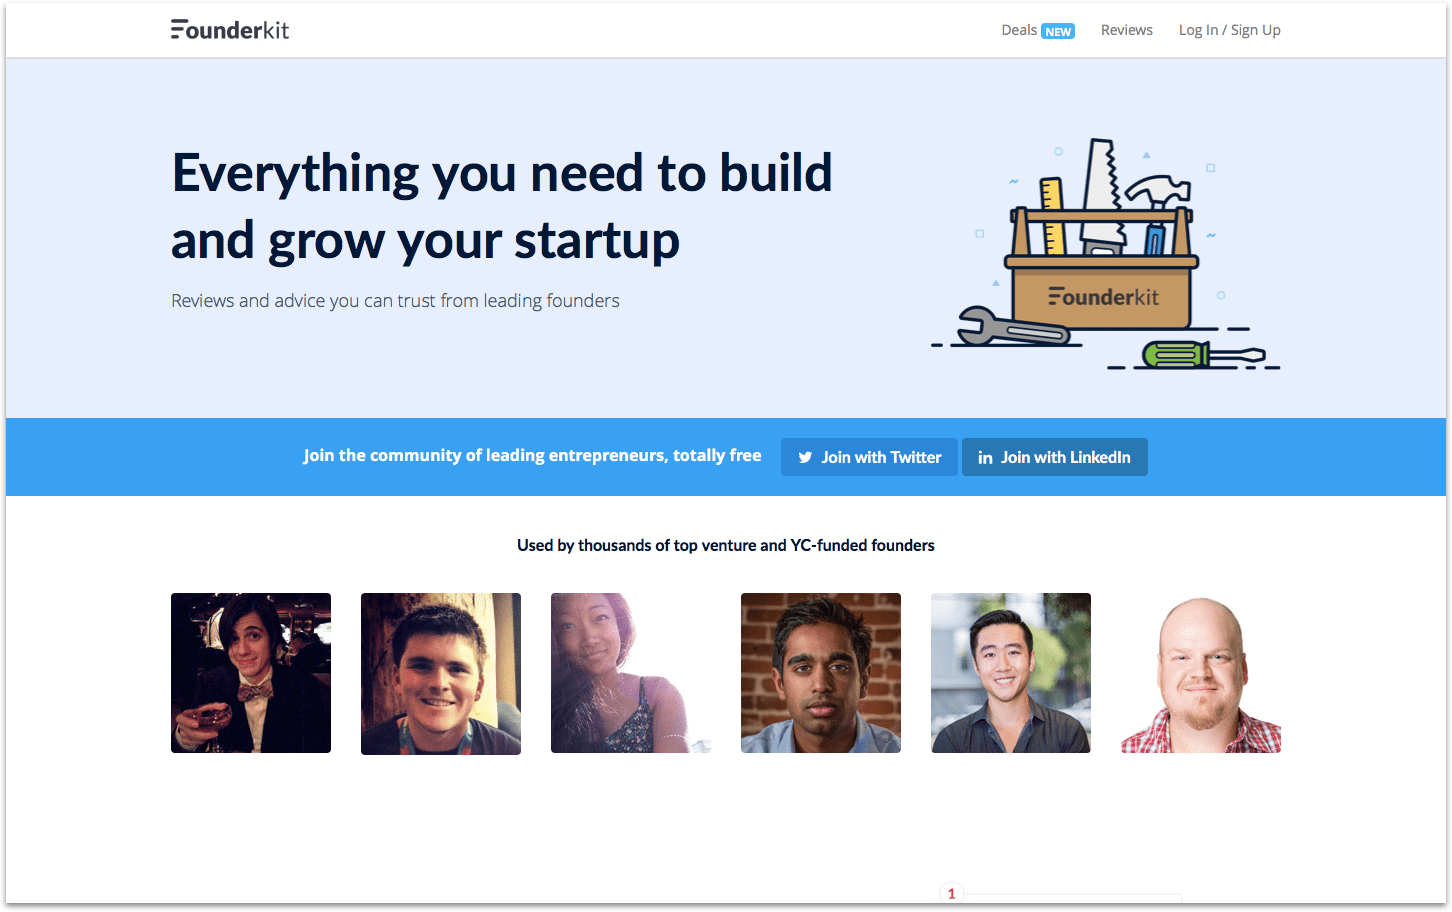
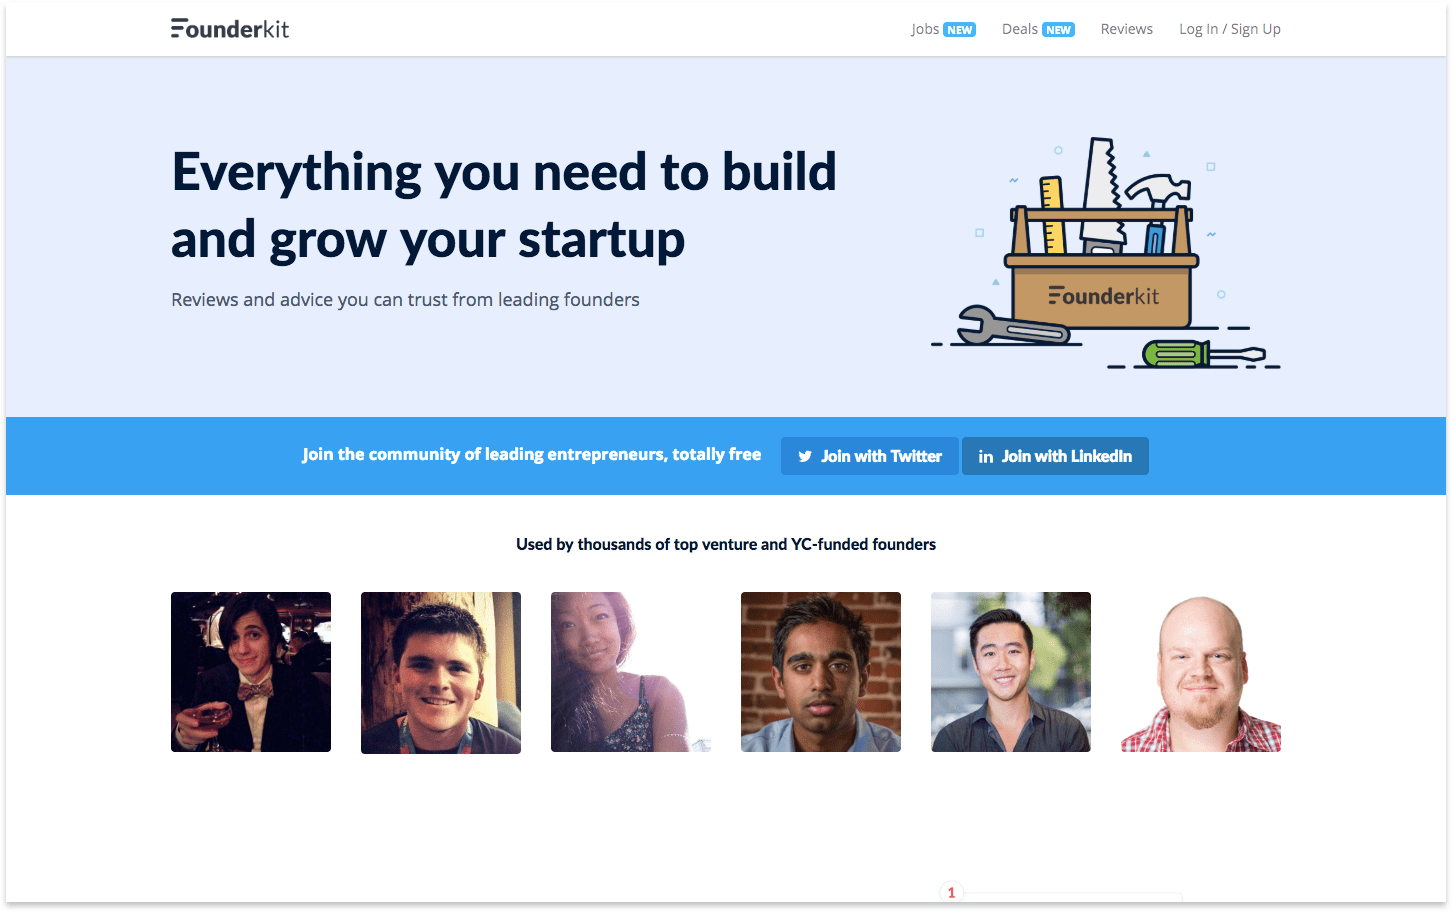
FounderKit update

diff --git a/Founderkit.html b/Founderkit.html
@@ -76,10 +76,11 @@
 					<h4 id="overview" class="black">Overview</h4>
 					<p class="bodyCopy textblack">FounderKit was a product that was developed in-house at Super, a 4 man startup studio led by two YC founders. In my 8 months there, it was the product that gained the most traction.</p> 
 					<p class="bodyCopy textblack">(10k users, 60k ARR)</p> 
-					<p class="bodyCopy textblack">FounderKit was a product that sourced tool recommendations and reviews from experienced founders so that young founders can quickly discover the best tool to use to build their startup. We quickly became viral in the entrepreneurship community, especially among first-time founders.</p> 
-					<p class="bodyCopy textblack">I joined the team post-MVP and worked to redesign the product to handle v2 features while concurrently developing the community. </p> 
-					<p class="bodyCopy textblack">However, the product was considered unmonetizable mid-redesign and efforts to work on it was shelved in favor of other, higher potential, ventures. I left the team soon after to pursue other ventures.</p> 
-					<p class="bodyCopy textblack">Product development is currently on indefinite hiatus.</p> 
+					<p class="bodyCopy textblack">FounderKit was a community where pre-vetted, experienced founders rated and reviewed products to help young founders quickly discover the best tools to use as they build their first company. We quickly became viral in the entrepreneurship community, especially among first-time founders, due to our high signal-noise ratio.</p> 
+					<p class="bodyCopy textblack">In addition to the main product rate/review feature, we allowed for companies to offer discounts to their products through FounderKit Deals, our main monetization feature.</p> 
+					<p class="bodyCopy textblack">I started work on this product post-MVP and was working on a major redesign of the product to handle v2 features. Concurrently, I was developing the community.</p> 
+					<p class="bodyCopy textblack">However, the product was considered lacking potential mid-redesign and efforts to work on it was shelved in favor of other ventures. I left the team soon after to pursue other opportunities as well.</p> 
+					<p class="bodyCopy textblack">Product development has since restarted and FounderKit Jobs has been launched.</p> 
 
 					<h4 id="tryit" class="black">Try it Out!</h4>
 					<div class="singleImg">

diff --git a/aloft.html b/aloft.html
@@ -87,7 +87,7 @@
 					<div class="smallImg">
 						<img src="Media/Aloft/Aloft3.gif" alt="Gif">
 					</div>
-					<p class="bodyCopy textblack">Worm Gifs -- 85,531 Impressions // 44,161 People Reached // Avg. Percentage Watched = 91.91%, 1546 Link Clicks, 1.8%+ Click-through Rate</p>
+					<p class="bodyCopy textblack">Worm Gifs -- 85,531 Impressions // 44,161 People Reached // Avg. Percentage Watched = 91.91% // 1546 Link Clicks // 1.8%+ Click-through Rate</p>
 				</div>
 			</div>
 		</div>
